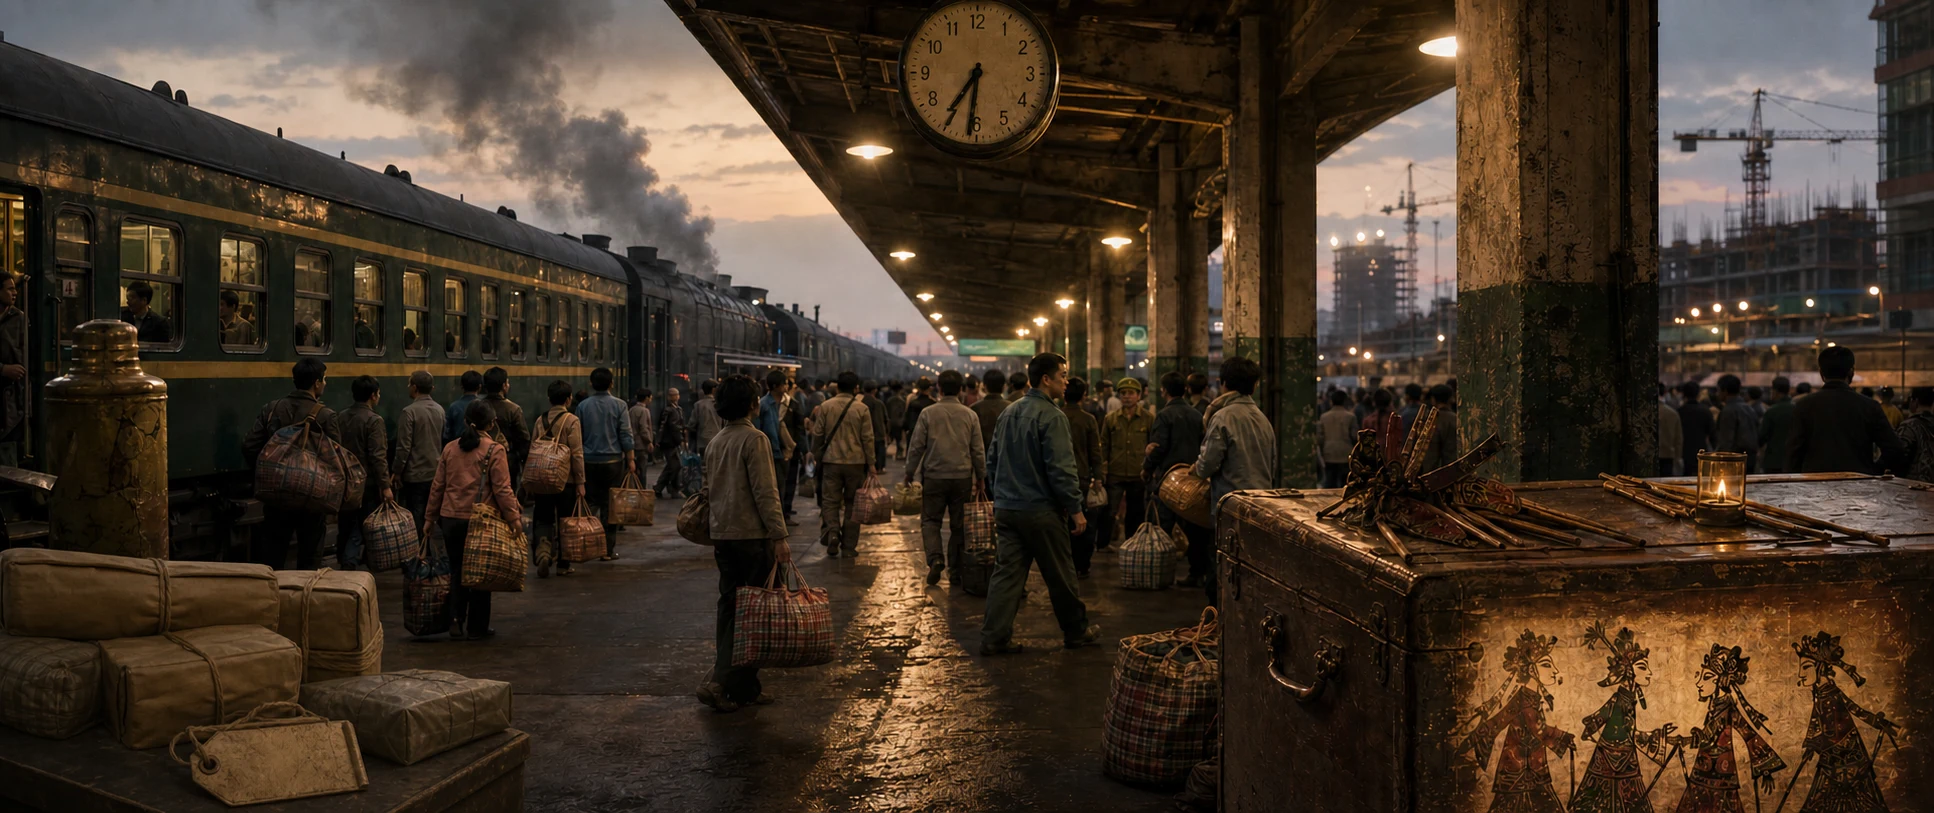
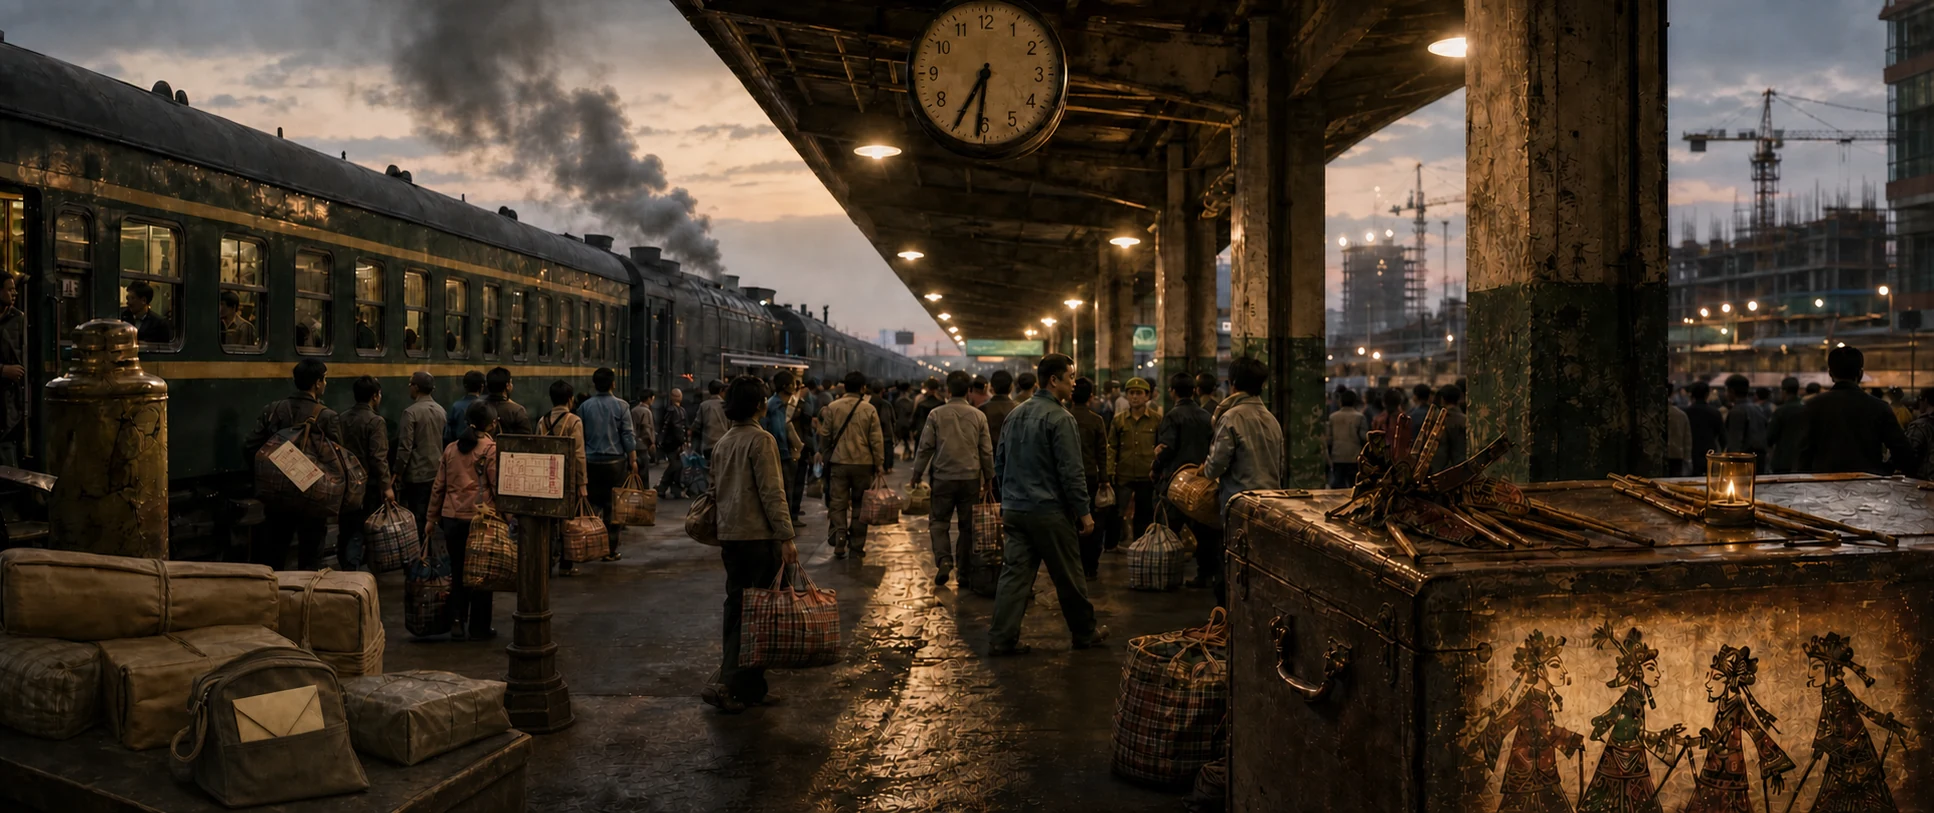
fix: align cinematic backgrounds with hotspots

diff --git a/docs/qa/2026-07-27-hotspot-art-audit.md b/docs/qa/2026-07-27-hotspot-art-audit.md
@@ -1,0 +1,37 @@
+# 五幕热点物件美术复核
+
+复核基准：逐幕检查原尺寸母图，确认 17 个 canonical 热点都有可辨认的场景内物件；
+对缺失或语义不清的物件只做局部补画，不改变场景年代、镜头、人物、安全区和整体色调。
+移动端的实际裁切、热点点击及弹窗对应关系将在多尺寸真实页面验收中再次确认。
+
+| 场景 | 热点物件 | 结果 | 证据/修复 |
+| --- | --- | --- | --- |
+| `scene_1972` | 皮影戏幕 | visible | 原图暖光戏幕可辨认，局部补画后保持不变 |
+| `scene_1972` | 旧工具箱与刻刀 | visible | 已在戏台下方补入打开的雕花木工具箱和窄刃刻刀 |
+| `scene_1972` | 三英战吕布皮影 | visible | 已在砖墙暖光区补入三件彼此分离的武将皮影 |
+| `scene_1990` | 南下车票 | visible | 已补入带旧红色票版特征、无可读文字的纸质车票 |
+| `scene_1990` | 皮影木箱 | visible | 原图右侧发光木箱及箱顶皮影可辨认 |
+| `scene_1990` | 未寄出的信 | visible | 已在左侧行李袋中补入露出三角封口的旧信封 |
+| `scene_1990` | 站台时钟 | visible | 原图上方机械站钟清晰可辨 |
+| `scene_2024` | 小雨的信 | visible | 已在台灯照亮的工作台上补入无可读文字的折叠信纸 |
+| `scene_2024` | 泛黄剧照 | visible | 原图左墙的旧演出照片组可辨认 |
+| `scene_2024` | 最后一场演出海报 | visible | 已在左墙补入红幕与皮影剪影构成的残旧终场海报 |
+| `scene_2050` | 水晶奖杯 | visible | 原图舞台中央水晶奖杯清晰可辨 |
+| `scene_2050` | 时光照片墙 | visible | 原图左侧纵向历史照片墙清晰可辨 |
+| `scene_2050` | 全息皮影舞台 | visible | 原图右侧象牙金舞台上的皮影投影可辨认 |
+| `scene_2050` | 观众席泪光 | visible | 已加强既有前排观众的面部轮廓、眼部高光与克制泪痕反光 |
+| `scene_2089` | 泛黄全家福 | visible | 原图右侧暖光相框中的家庭合影可辨认 |
+| `scene_2089` | 非遗证书档案 | visible | 已在左侧档案柜补入带红色印章、无可读文字的装框证书 |
+| `scene_2089` | 最后一个孙悟空皮影 | visible | 原图中央暖色记忆核中的孙悟空皮影清晰可辨 |
+
+## 变更后的母图
+
+| 文件 | 尺寸 | 字节数 |
+| --- | ---: | ---: |
+| `scene-1972-xian-alley.png` | 1937 × 812 | 1,044,802 |
+| `scene-1990-shenzhen-station.webp` | 1934 × 813 | 259,526 |
+| `scene-2024-urban-village-room.webp` | 1935 × 812 | 237,620 |
+| `scene-2050-award-ceremony.webp` | 1940 × 811 | 179,494 |
+| `scene-2089-memory-lab.webp` | 1940 × 811 | 205,766 |
+
+五张母图均低于 1.5 MB；1972 母图由 2,191,151 字节降至 1,044,802 字节。
